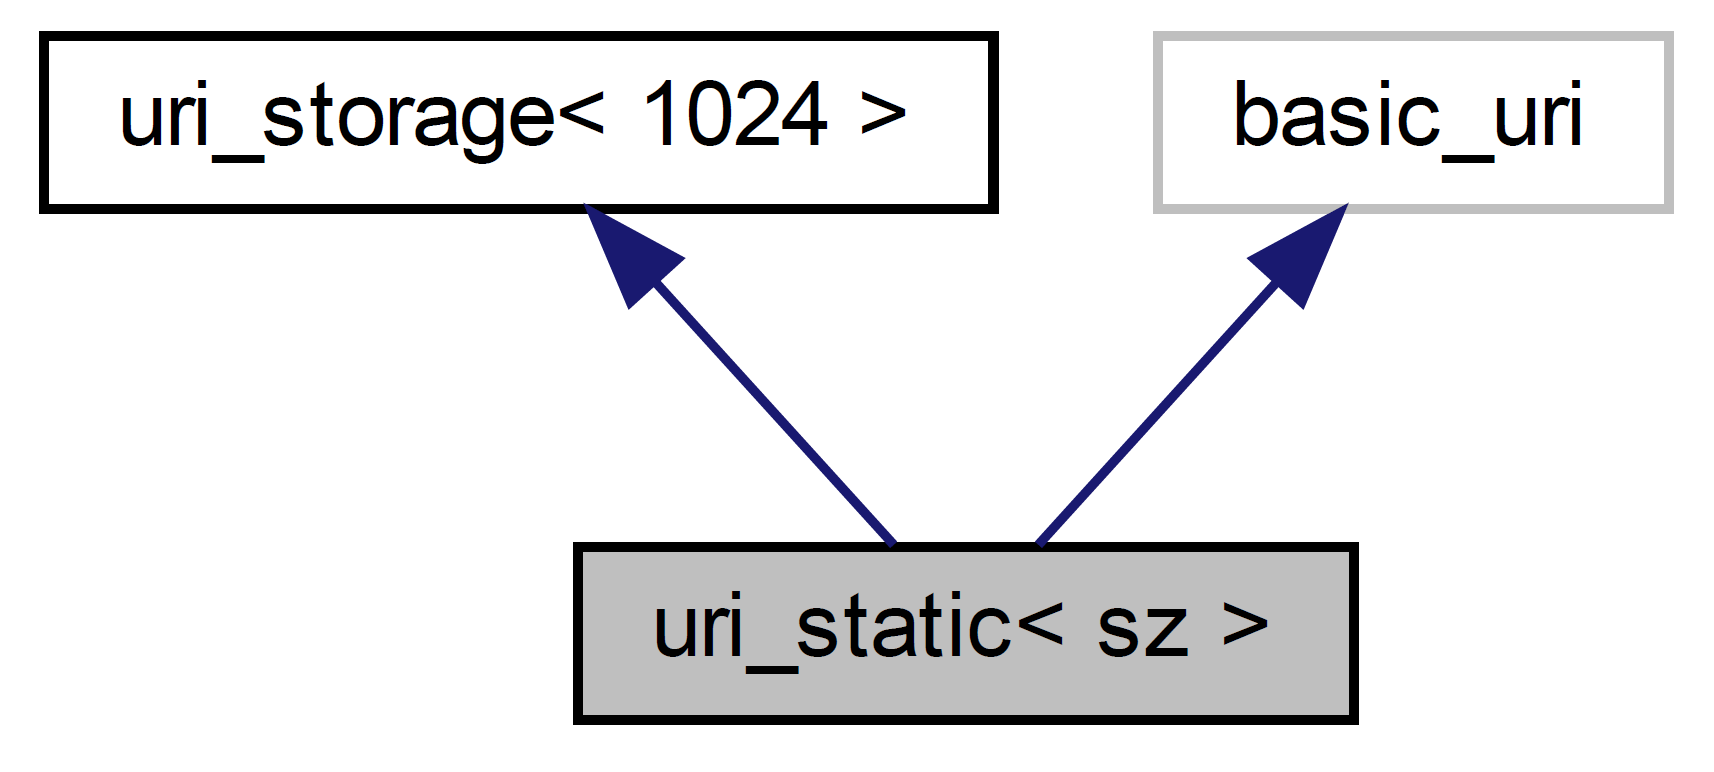
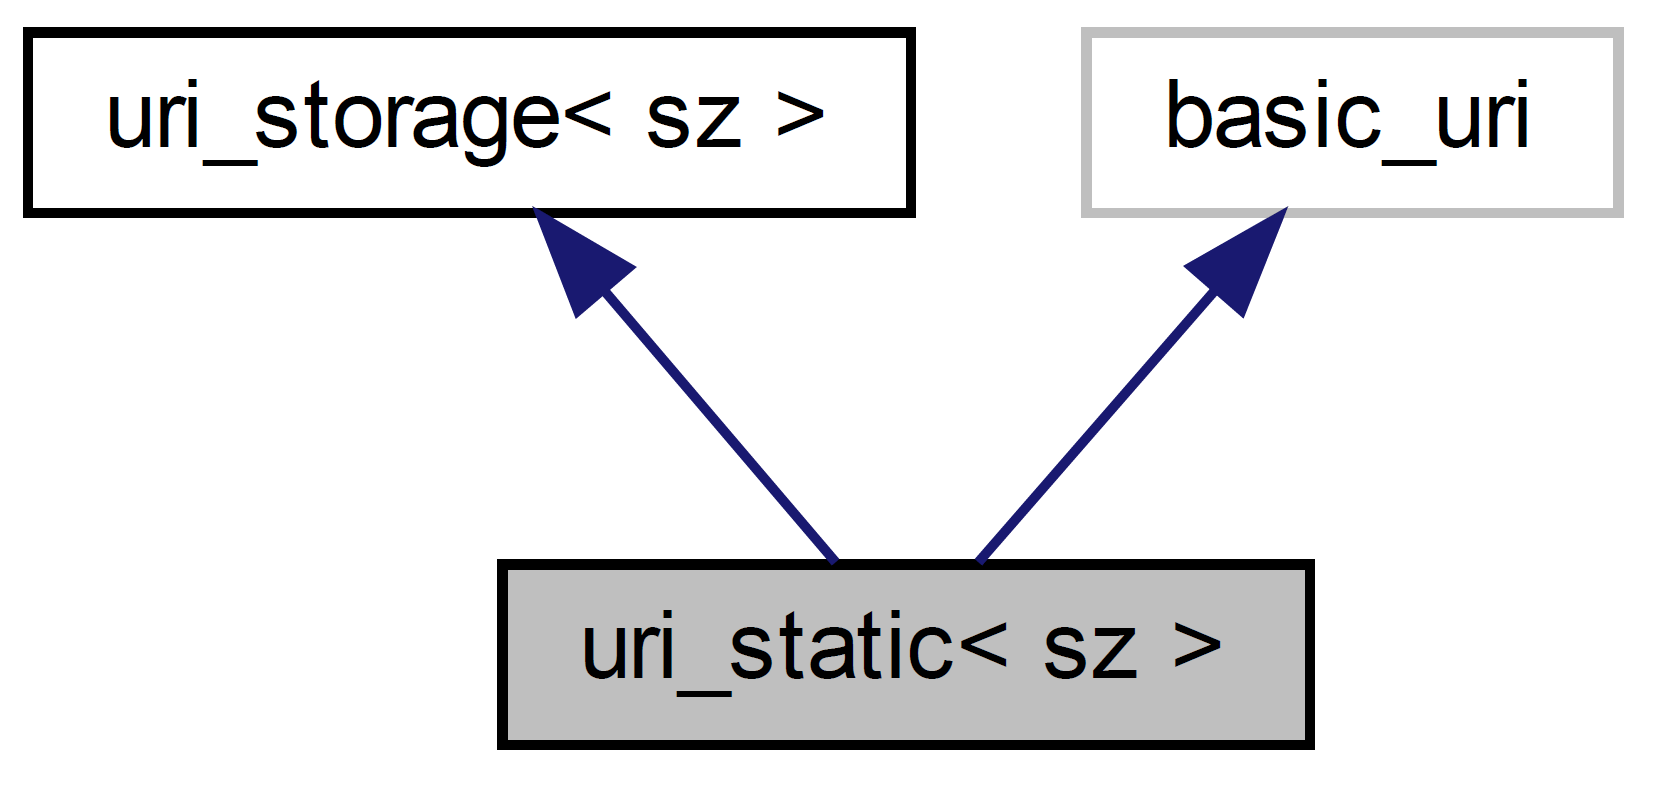
api updates 1.2

diff --git a/include/fix8/uri.hpp b/include/fix8/uri.hpp
@@ -515,7 +515,7 @@ public:
 };
 
 //-----------------------------------------------------------------------------------------
-template<size_t sz=1024>
+template<size_t sz>
 class uri_static : public uri_storage<sz>, public basic_uri
 {
 public:
